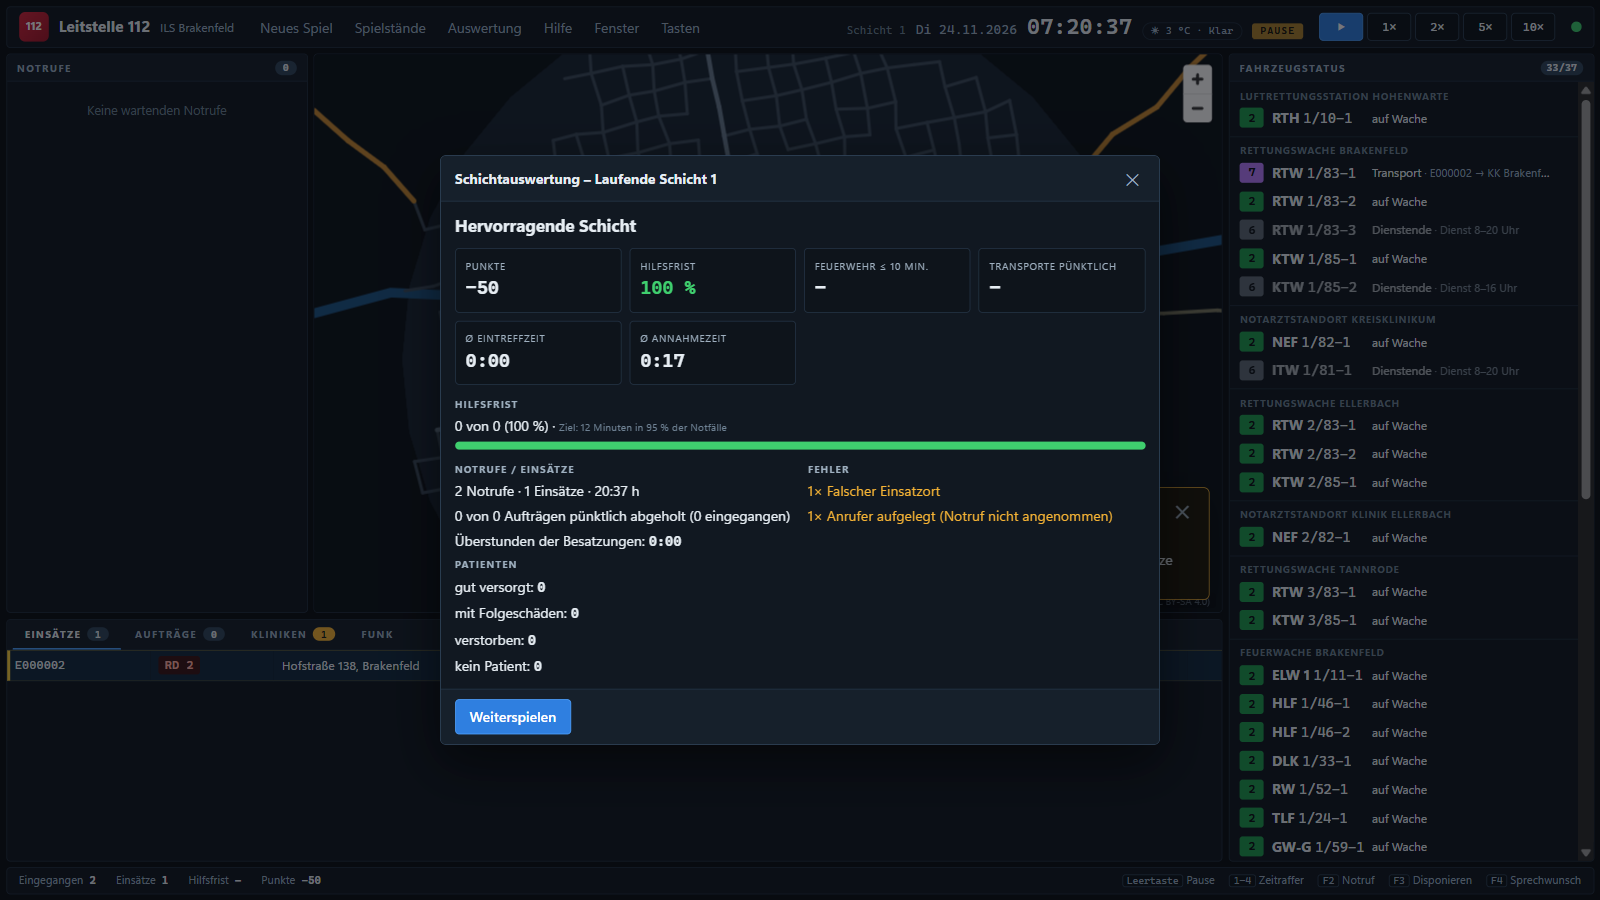
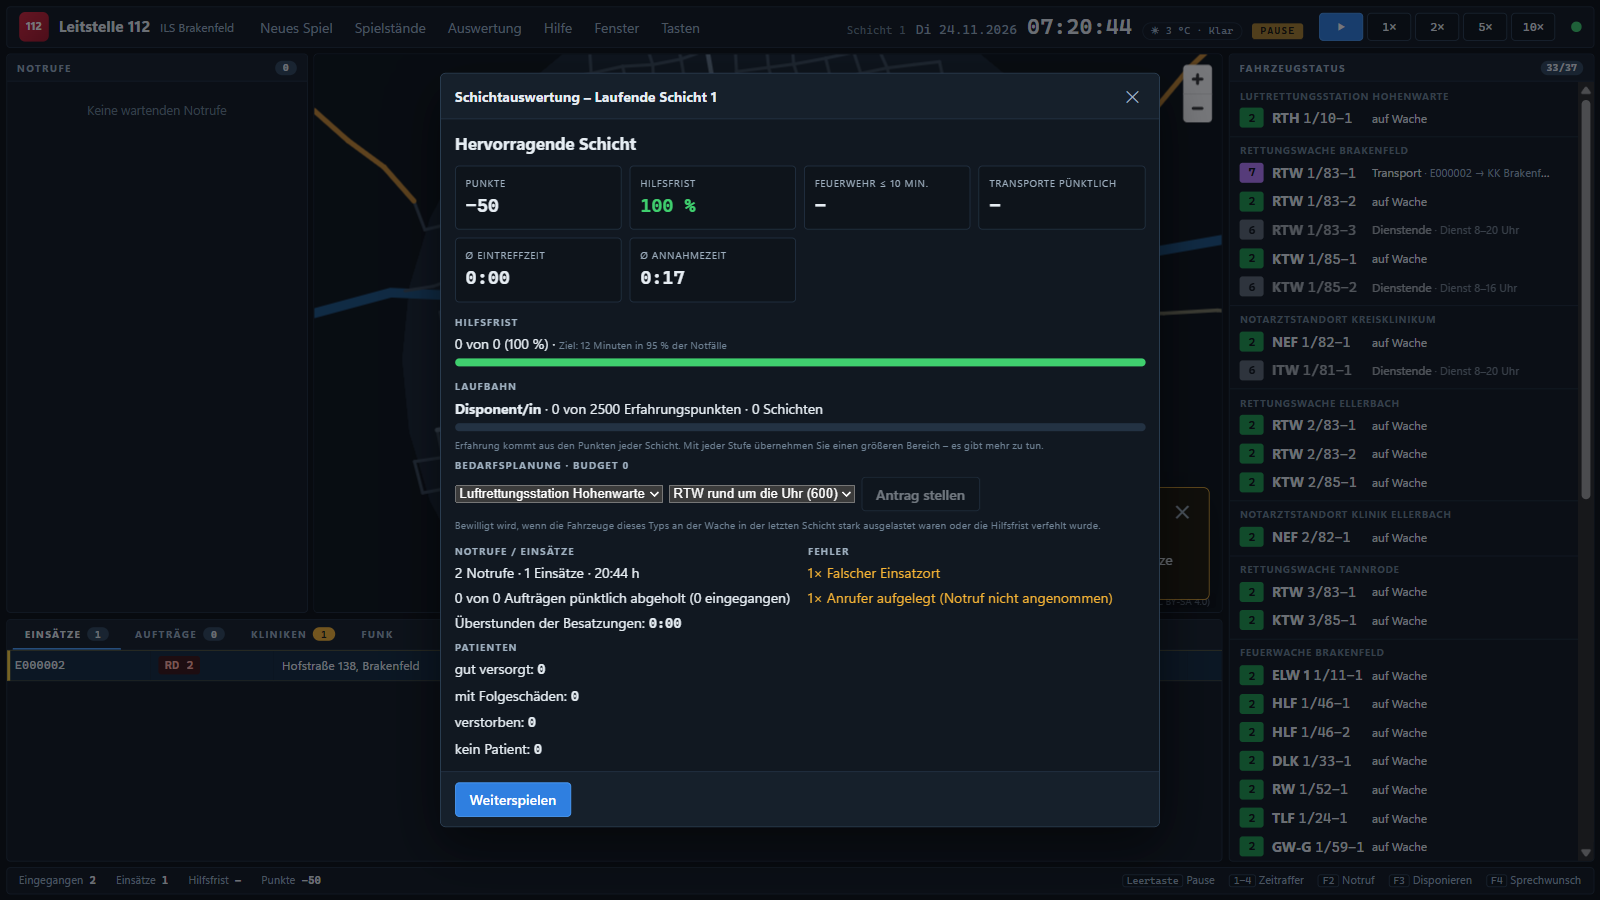
docs: Langzeitspiel dokumentieren, Screenshots, Version 0.8.0
- docs/domain/langzeit.md (Laufbahn, Bedarfsplanung, Personen,
  Eigensicherung, Tages-Herausforderung), Glossar
- E2E: Tages-Herausforderung mit Laufbahn in der Auswertung, Screenshot
- CHANGELOG 0.8.0, Roadmap, PLAN-Stand

diff --git a/e2e/app.spec.ts b/e2e/app.spec.ts
@@ -240,6 +240,19 @@ test('MANV-Übung: Großlage melden, alarmieren, Sichtung abwarten', async () =>
   await expect(page.getByTestId('mci-dialog')).toBeHidden();
 });
 
+test('Tages-Herausforderung: Laufbahn und Bedarfsplanung in der Auswertung', async () => {
+  await page.getByTestId('menu-new').click();
+  await page.getByTestId('start-preset').selectOption('daily');
+  await page.getByTestId('start-free').click();
+  await expect(page.getByTestId('start-screen')).toBeHidden();
+  await page.keyboard.press('F9');
+  await expect(page.getByTestId('evaluation')).toBeVisible();
+  await expect(page.getByTestId('career')).toContainText('Disponent');
+  await expect(page.getByTestId('daily-challenge')).toBeVisible();
+  await shot('laufbahn');
+  await page.keyboard.press('Escape');
+});
+
 test('stellt die Simulation nach einem Absturz aus dem Autosave wieder her', async () => {
   // Autosave alle 5 Spielminuten – bei 10× genügen gut 30 s Echtzeit.
   await page.getByTestId('btn-speed-10').click();

diff --git a/docs/domain/langzeit.md b/docs/domain/langzeit.md
@@ -1,0 +1,63 @@
+# Langzeitspiel (seit 0.8.0)
+
+Daten: `career` und `persons` in [`einstellungen.yaml`](../../content/base/einstellungen.yaml).
+Entscheidung: [ADR-0018](../adr/0018-langzeitspiel.md). Alle Schwellen, Kosten und Anteile sind
+**Annahmen** für das Spiel.
+
+## Laufbahn
+
+Jede Schicht bringt so viele Erfahrungspunkte, wie die Auswertung Punkte zeigt (negative Schichten
+zählen als null).
+
+| Stufe                    | ab Erfahrung | Bereich (Faktor auf das Aufkommen) |
+| ------------------------ | ------------ | ---------------------------------- |
+| Disponent/in             | 0            | 1,0                                |
+| Erfahrene/r Disponent/in | 2.500        | 1,1                                |
+| Schichtführer/in         | 7.000        | 1,2                                |
+| Lagedienstführer/in      | 15.000       | 1,35                               |
+
+Mit jeder Stufe übernimmt man einen größeren Bereich: Es kommen mehr Notrufe und
+Krankentransporte – mit denselben Fahrzeugen, solange die Bedarfsplanung nichts nachbessert.
+
+## Bedarfsplanung
+
+Je Punkt einer Schicht gibt es 0,25 Budget. Unter **Auswertung → Bedarfsplanung** lässt sich ein
+zusätzliches Fahrzeug an einer Rettungswache beantragen:
+
+| Fahrzeug             | Kosten |
+| -------------------- | ------ |
+| RTW rund um die Uhr  | 600    |
+| Tages-RTW (8–20 Uhr) | 350    |
+| KTW                  | 200    |
+| NEF                  | 500    |
+
+Bewilligt wird nur ein **begründeter** Antrag: Die Fahrzeuge dieses Typs an der Wache waren in der
+letzten Schicht mindestens 35 % der Zeit gebunden, oder die Hilfsfrist wurde verfehlt. Das neue
+Fahrzeug steht sofort auf der Wache und bleibt im Spielstand.
+
+## Wiederkehrende Personen und Adressen
+
+Jedes Spiel hat aus seinem Seed drei Vielanrufer, sechs Stammpatienten und drei Gefahrenadressen.
+Etwa 6 % der Notrufe kommen von ihnen:
+
+- **Vielanrufer** rufen oft nur an, um jemanden zu hören (Auskunft), manchmal mit einem
+  psychiatrischen Notfall.
+- **Stammpatienten** haben immer dasselbe Krankheitsbild (COPD, Diabetes, Epilepsie, Stürze).
+- **Gefahrenadressen:** Intoxikation oder psychiatrischer Notfall mit Gefahr für die
+  Einsatzkräfte. In 60 % der Anrufe erwähnt der Anrufer Aggression oder eine Waffe.
+
+Die Notrufmaske zeigt nach „Wo?“ die **Einsatzhistorie** der Adresse (Zahl, letzte Stichworte,
+Gefahrenhinweis) und nach der Rückrufnummer, ob der Anrufer bekannt ist.
+
+### Eigensicherung
+
+An einer Gefahrenadresse warten die Kräfte ohne Polizei 5–10 Minuten, bevor sie zum Patienten
+gehen. Den Knopf **„Polizei“** zeigt die Einsatzliste, sobald die Gefahr bekannt ist. War sie bekannt
+(Historie oder Hinweis des Anrufers) und die Polizei wurde nicht verständigt, gibt es den Fehler
+„Polizei trotz bekannter Gefahr nicht verständigt“ (−10 Punkte).
+
+## Tages-Herausforderung
+
+Im Startbildschirm: **Tages-Herausforderung**. Der Seed stammt aus dem heutigen Datum – an diesem
+Tag spielen alle denselben Verlauf. Die Auswertung zeigt die Bestleistung auf diesem Rechner.
+Nichts wird versendet.

diff --git a/README.md b/README.md
@@ -106,7 +106,7 @@ nichts automatisch versendet – das Paket kann einem
 
 ## Stand und Roadmap
 
-**v0.7.0:** Massenanfall von Verletzten und Großlagen. **v0.6.0:** Mehrere Fenster und Bildschirme, eigene Tastenbelegung, Diagnosepaket. **v0.5.0:** Wetter, Feiertage, Ereignisse, Rettungshubschrauber. **v0.4.0:** Krankentransporte, Klinikabmeldungen, Pausen. **v0.3.0:** Feuerwehr mit Brand- und Hilfeleistungslagen, die sich ausbreiten. **v0.2.0:** strukturierte Notrufabfrage mit Fehl-, Scherz- und Doppelanrufen. **Seit v0.1.0:** Rettungsdienst im fiktiven Landkreis Brakenfeld. Dazu gehören
+**v0.8.0:** Laufbahn, Bedarfsplanung, wiederkehrende Personen. **v0.7.0:** Massenanfall von Verletzten und Großlagen. **v0.6.0:** Mehrere Fenster und Bildschirme, eigene Tastenbelegung, Diagnosepaket. **v0.5.0:** Wetter, Feiertage, Ereignisse, Rettungshubschrauber. **v0.4.0:** Krankentransporte, Klinikabmeldungen, Pausen. **v0.3.0:** Feuerwehr mit Brand- und Hilfeleistungslagen, die sich ausbreiten. **v0.2.0:** strukturierte Notrufabfrage mit Fehl-, Scherz- und Doppelanrufen. **Seit v0.1.0:** Rettungsdienst im fiktiven Landkreis Brakenfeld. Dazu gehören
 7 Orte, 3 Rettungswachen, 2 Notarztstandorte, 2 Krankenhäuser, 4 Stichworte und
 14 Krankheitsbilder, außerdem Tutorial, Speichern und Laden sowie die Schichtauswertung.
 
@@ -122,7 +122,8 @@ nichts automatisch versendet – das Paket kann einem
 | M8 Welt-Dynamik      | Wetter, Feiertage, Sommerzeit, Ereignisse, Sperrungen, Regie, RTH           | ✅                                                                 |
 | M9 Mehrfenster       | Fenster je Ansicht, Layout-Profile, Tastenbelegung, Diagnosepaket           | ✅                                                                 |
 | M10 MANV             | Großlagen, Sichtung, LNA/OrgL/SEG, Bereitstellungsraum, Patientenverteilung | ✅                                                                 |
-| M11 – M12            | Langzeitspiel, Editoren                                                     | [geplant](https://github.com/samuelklsn/leitstelle-112/milestones) |
+| M11 Langzeitspiel    | Laufbahn, Bedarfsplanung, Tages-Herausforderung, Personen, Eigensicherung   | ✅                                                                 |
+| M12 – M13            | Editoren und Modding (v1.0.0), echte Regionen                               | [geplant](https://github.com/samuelklsn/leitstelle-112/milestones) |
 
 ## Technik
 

diff --git a/CHANGELOG.md b/CHANGELOG.md
@@ -6,6 +6,25 @@ Versionierung nach [Semantic Versioning](https://semver.org/lang/de/).
 
 ## [Unreleased]
 
+## [0.8.0] – 2026-11-24 – Langzeitspiel (M11)
+
+### Hinzugefügt
+
+- **Laufbahn (#53):** Erfahrung aus jeder Schicht, Beförderung bis zur Lagedienstführung. Jede
+  Stufe übernimmt einen größeren Bereich mit mehr Aufkommen.
+- **Bedarfsplanung (#53):** Budget aus guten Schichten; zusätzliche RTW, Tages-RTW, KTW oder NEF
+  beantragen. Bewilligt wird nur, was die Statistik der letzten Schicht begründet.
+- **Tages-Herausforderung:** Seed aus dem Datum, für alle gleich, Bestleistung lokal.
+- **Wiederkehrende Personen und Adressen (#54):** Vielanrufer, Stammpatienten und
+  Gefahrenadressen; Einsatzhistorie und bekannte Rufnummern in der Notrufmaske.
+- **Eigensicherung:** Kräfte warten an Gefahrenadressen auf die Polizei; Knopf „Polizei“ in der
+  Einsatzliste, Fehler bei bekannter Gefahr ohne Polizei.
+- ADR-0018 und Fachdoku `docs/domain/langzeit.md`.
+
+### Geändert
+
+- Spielstände haben die Snapshot-Version 6. Spielstände aus 0.7.0 lassen sich nicht laden.
+
 ## [0.7.0] – 2026-11-24 – MANV und Großlagen (M10)
 
 ### Hinzugefügt
@@ -243,7 +262,8 @@ eigentlichen Sinn – das kommt ab M2/M3.
 - Nach einem Absturz startet die Simulation neu beim Schichtbeginn; Autosave folgt in M4.
 - Der Installer wird nur in der CI gebaut (Richtlinie des Entwicklungsrechners, PLAN Kapitel 9).
 
-[Unreleased]: https://github.com/samuelklsn/leitstelle-112/compare/v0.7.0...HEAD
+[Unreleased]: https://github.com/samuelklsn/leitstelle-112/compare/v0.8.0...HEAD
+[0.8.0]: https://github.com/samuelklsn/leitstelle-112/compare/v0.7.0...v0.8.0
 [0.7.0]: https://github.com/samuelklsn/leitstelle-112/compare/v0.6.0...v0.7.0
 [0.6.0]: https://github.com/samuelklsn/leitstelle-112/compare/v0.5.0...v0.6.0
 [0.5.0]: https://github.com/samuelklsn/leitstelle-112/compare/v0.4.0...v0.5.0

diff --git a/docs/domain/glossar.md b/docs/domain/glossar.md
@@ -7,6 +7,8 @@
 | Einsatz-Regie       | Schwankung des Aufkommens in Phasen innerhalb fester Grenzen (ADR-0014)                              | `director`            |
 | Disponent/in        | Fachkraft in der Leitstelle, die Notrufe annimmt und Einsätze führt                                  | –                     |
 | Einsatz             | Ein Ereignis, zu dem Kräfte alarmiert werden                                                         | `incident`            |
+| Eigensicherung      | Schutz der Einsatzkräfte vor Gefahren, z. B. Polizei bei Gewalt                                      | `danger`              |
+| Einsatzhistorie     | Frühere Einsätze an einer Adresse, wie sie ein Einsatzleitsystem zeigt                               | `addressHistory`      |
 | Erstbefund          | Erste Rückmeldung der Einsatzkräfte vor Ort                                                          | `assessed`, `finding` |
 | FMS                 | Funkmeldesystem: Statusmeldungen 0–9 der Fahrzeuge                                                   | `FmsStatus`           |
 | Hilfsfrist          | Zeit vom Notrufeingang bis zum Eintreffen des ersten Rettungsmittels                                 | `hilfsfrist`          |

diff --git a/docs/adr/README.md b/docs/adr/README.md
@@ -24,4 +24,4 @@ Entscheidung bekommt ein neues ADR, das alte wird auf „Abgelöst" gesetzt. Nac
 | [0015](0015-rd-logistik.md)                      | Rettungsdienst-Logistik                              | Angenommen |
 | [0016](0016-welt-dynamik.md)                     | Welt-Dynamik: Wetter, Kalender, Ereignisse, Regie    | Angenommen |
 | [0017](0017-manv-grosslagen.md)                  | Massenanfall von Verletzten und Großlagen            | Angenommen |
-| [0018](0018-langzeitspiel.md) | Langzeitspiel: Laufbahn, Bedarfsplanung, Personen | Angenommen |
+| [0018](0018-langzeitspiel.md)                    | Langzeitspiel: Laufbahn, Bedarfsplanung, Personen    | Angenommen |

diff --git a/docs/domain/README.md b/docs/domain/README.md
@@ -17,4 +17,5 @@ die Issue-Vorlage „Fachliches Feedback“.
 | [logistik.md](logistik.md)                   | Krankentransport, Kliniken, Dienst, Pausen, Status 6 |
 | [welt.md](welt.md)                           | Wetter, Feiertage, Ereignisse, Regie, Luftrettung    |
 | [manv.md](manv.md)                           | MANV und Großlagen: Sichtung, Verteilung, Reserven   |
+| [langzeit.md](langzeit.md)                   | Laufbahn, Bedarfsplanung, Personen, Eigensicherung   |
 | [region-brakenfeld.md](region-brakenfeld.md) | Der fiktive Landkreis und seine Vorhaltung           |

diff --git a/docs/PLAN.md b/docs/PLAN.md
@@ -344,7 +344,7 @@ Krankenhauses nie negativ; nach Pause ändert sich der Zustand nicht.
 
 ## 6. Meilensteine
 
-**Stand 2026-11-24:** M0–M10 abgeschlossen (v0.7.0: Notrufannahme 2.0, Feuerwehr, RD-Logistik, Welt-Dynamik, Mehrfenster, MANV). Nächster Meilenstein: M11.
+**Stand 2026-11-24:** M0–M11 abgeschlossen (v0.8.0: Notrufannahme 2.0, Feuerwehr, RD-Logistik, Welt-Dynamik, Mehrfenster, MANV, Langzeitspiel). Nächster Meilenstein: M12.
 
 Jeder Meilenstein endet lauffähig, getestet, committet, mit CHANGELOG-Eintrag und
 Zusammenfassung an den Product Owner.
